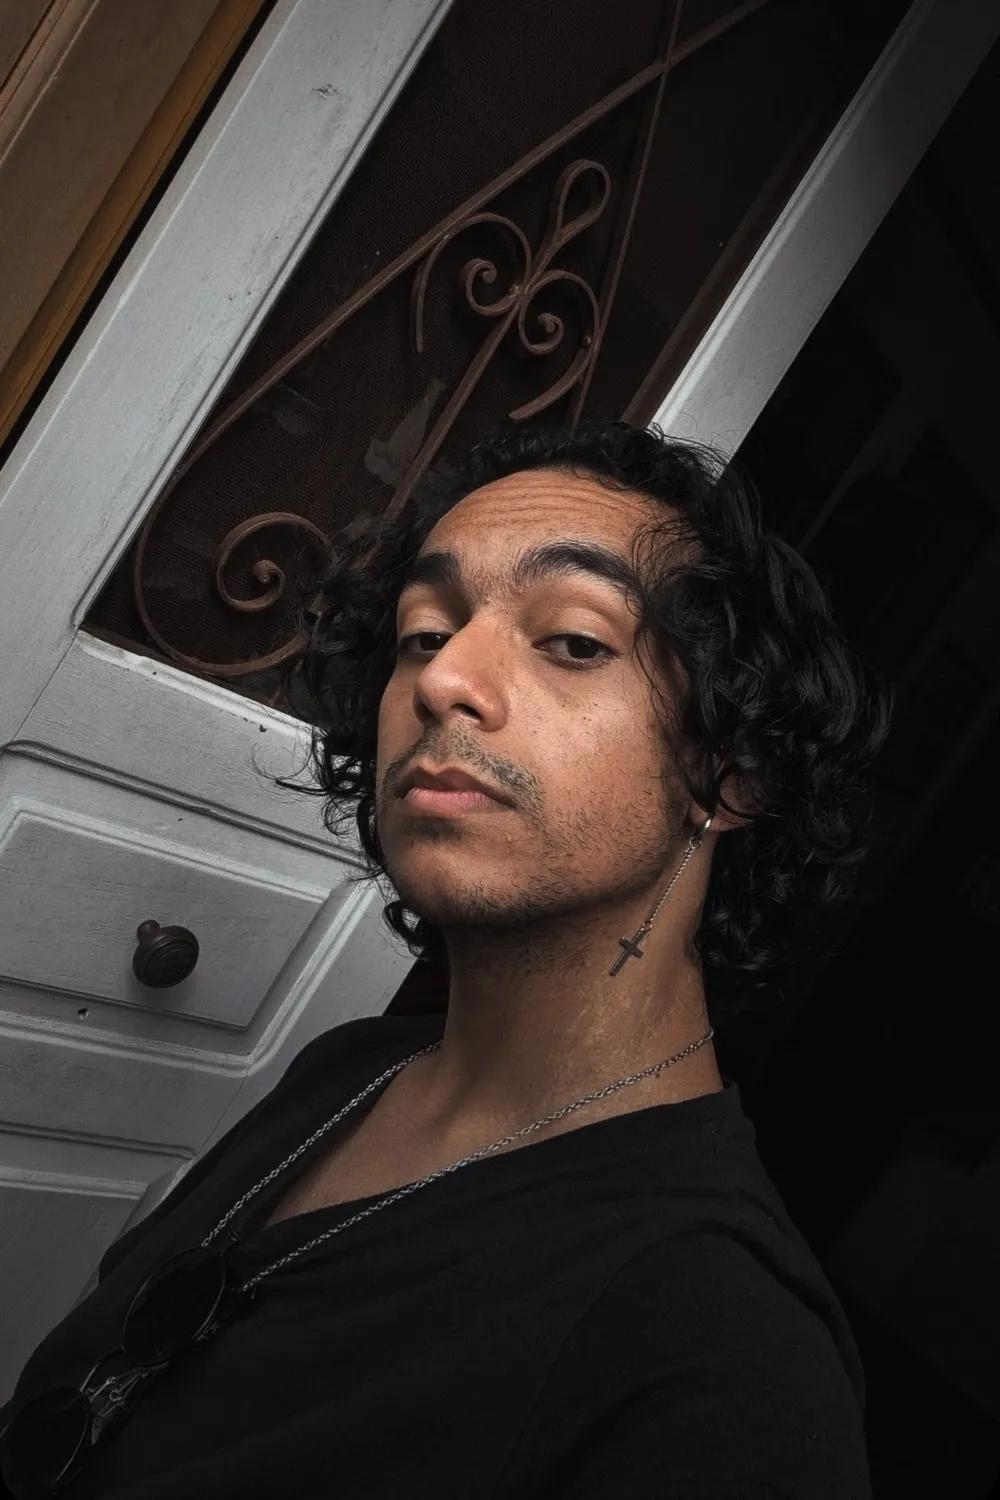
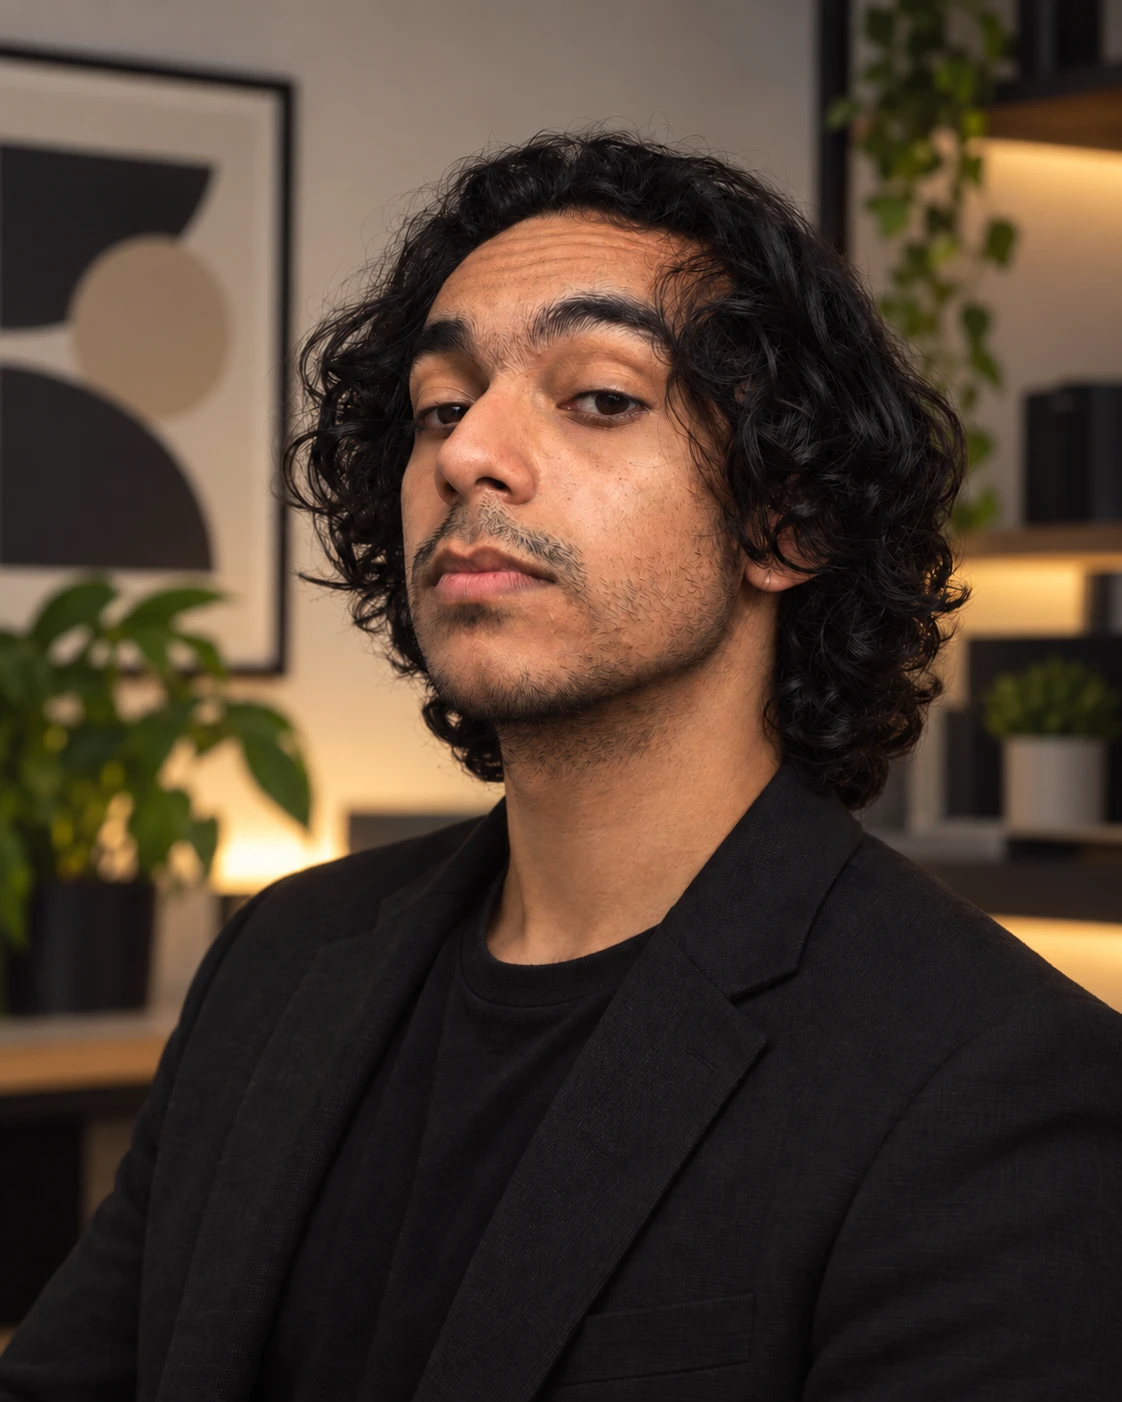
feat(about): new portrait in the quem sou eu video

diff --git a/src/components/about/videos/quem-sou-eu.tsx b/src/components/about/videos/quem-sou-eu.tsx
@@ -145,7 +145,7 @@ const Origem = ({ images, script }: Props) => (
     <SoftVignette />
     <Drift grow={0.05}>
       <div style={{ position: 'absolute', left: 340, top: 83 }}>
-        {/* portrait window, to match the 2:3 photo instead of cropping it */}
+        {/* portrait window, to match the 4:5 photo instead of cropping it */}
         <Polaroid
           width={500}
           mediaRatio={4 / 5}
